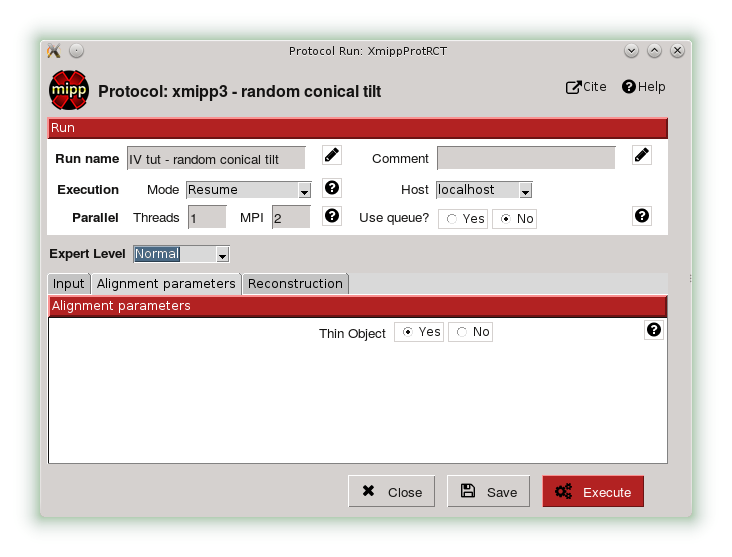
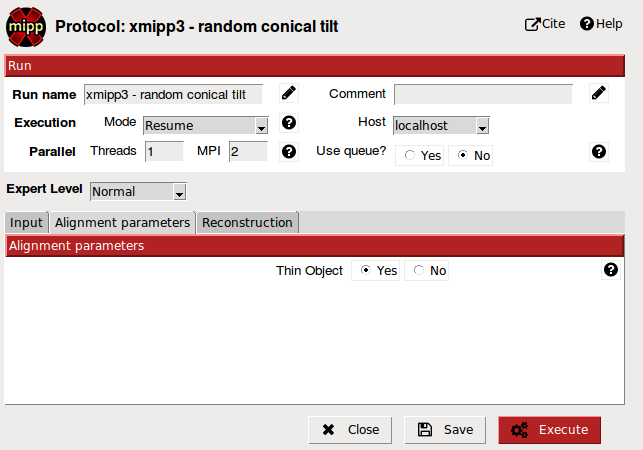
some fixes

diff --git a/tutorial_initial_volume/initialvolume.tex b/tutorial_initial_volume/initialvolume.tex
@@ -449,7 +449,7 @@ Select protocol \textbf{Random Conical Tilt} and fill in the form as shown in fi
 
 You have to provide the particles tilt pair object produced by the extraction (or a subset) and the particles or classes 
 you want to reconstruct. Take into account that if you choose particles they should contain alignment information.
-The \textbf{Thin Object} option must be set to “Yes” if the particle is not more or less spherical. 
+The \textbf{Thin Object} option must be set to “Yes” if the particle is not more or less spherical (figure ~\ref{RCTprotocol2}) . 
 When the object is going to change its width significantly between the untilted and the tilted image, we can considered this a “thin object”. 
 Reconstruction can also low-pass filter the volumes after the process is done, producing both filtered and not filtered volumes as output.
 
@@ -459,8 +459,15 @@ will show up.
 \begin{figure}[H]
 \centering
 \includegraphics[width=0.6\textwidth]{{images/10.RCTprotocol}.png}
-\caption{Xmipp RCT protocol}
+\caption{Xmipp RCT protocol. Input parameters.}
 \label{RCTprotocol}
+\end{figure}
+
+\begin{figure}
+\centering
+\includegraphics[width=0.6\textwidth]{{images/10.RCTprotocol2}.png}
+\caption{Xmipp RCT protocol. Alignment parameters.}
+\label{RCTprotocol2}
 \end{figure}
 
 \begin{figure}
